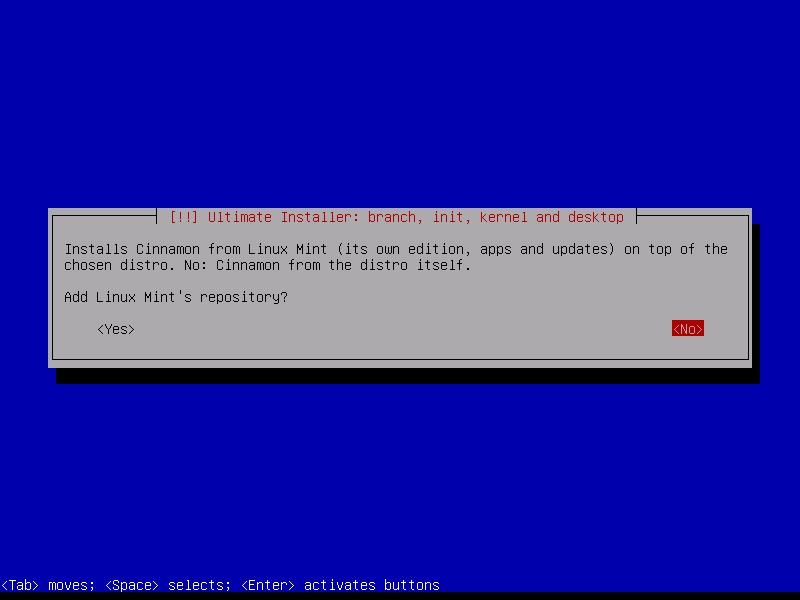
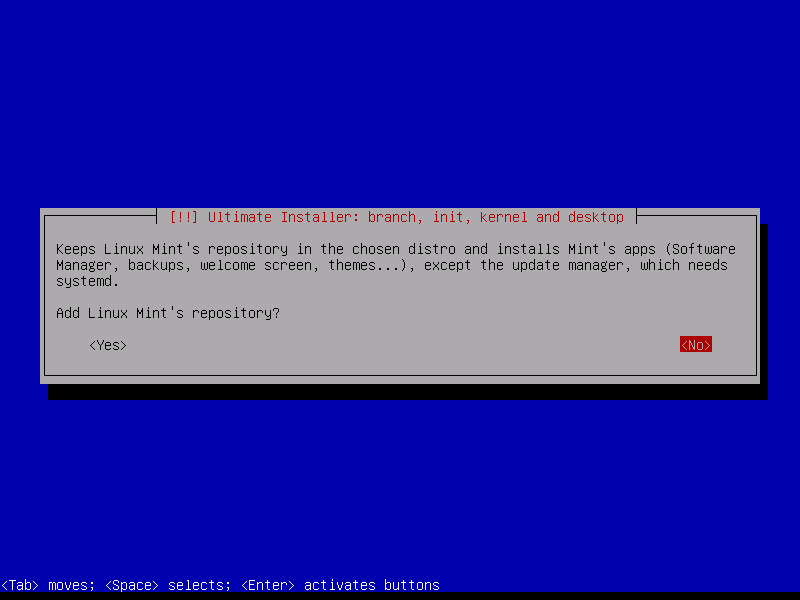
Linux Mint as a repository: low priority (100) and Mint's apps without systemd; only on stable; Cinnamon from the distro
Tested end to end in a VM (Devuan stable + OpenRC + Cinnamon + Mint): no systemd,
sources.list and os-release untouched, Mint's login screen, welcome screen and
Software Manager working. Left out: mintupdate (depends on systemd), mintreport
and debian-system-adjustments (removes bootlogd).

diff --git a/README.md b/README.md
@@ -40,8 +40,11 @@ The screens Ultimate Installer adds to the stock installer:
 - **Desktop**: MATE (Default), Xfce, Cinnamon, GNOME, GNOME Flashback,
   KDE Plasma, LXDE, LXQt or none.
 - **Linux Mint**: with Cinnamon, the installer asks whether to add Linux
-  Mint's repository (No by default). Mint is used as a repository, not as a
-  distro: on Devuan, Genuen or Debian you get Mint's Cinnamon edition.
+  Mint's repository (No by default, stable only). Mint is used as a
+  repository, not as a distro: Mint's repository stays (at a low priority, so
+  it never replaces the distro's packages) and Mint's apps are installed
+  (Software Manager, backups, welcome screen, themes…), except the update
+  manager, which needs systemd.
 - **X server**: for X11 desktops, X11 (Xorg, Default) or
   [XLibre](https://github.com/X11Libre/xserver). Plasma and GNOME use Wayland.
 - One kernel in the installed system; closed firmware can be added or removed
